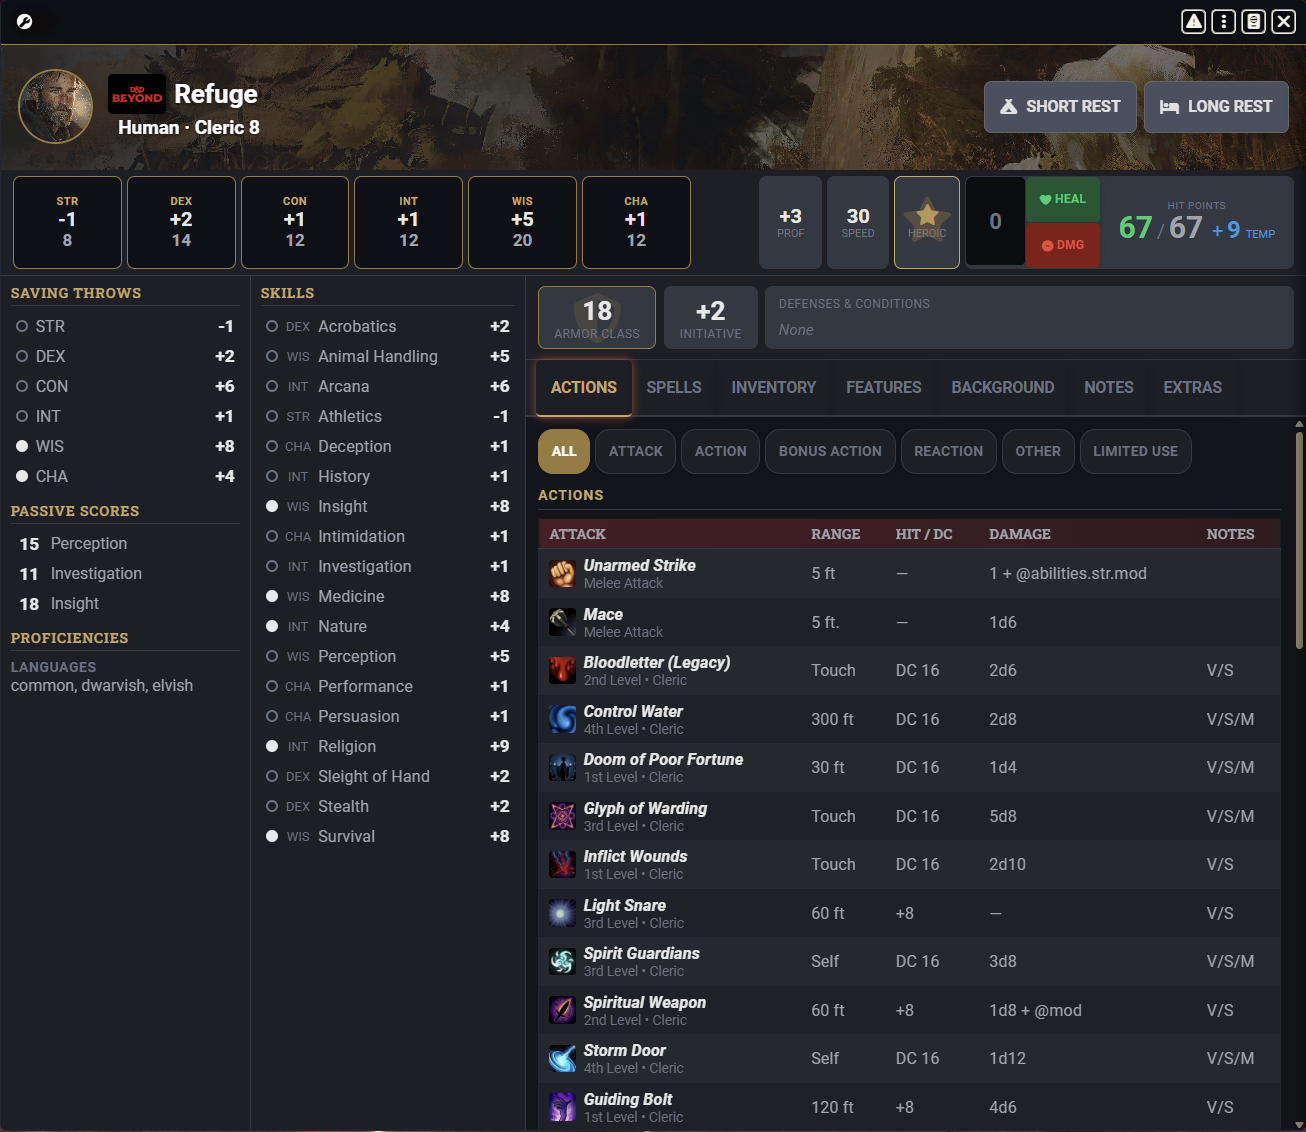
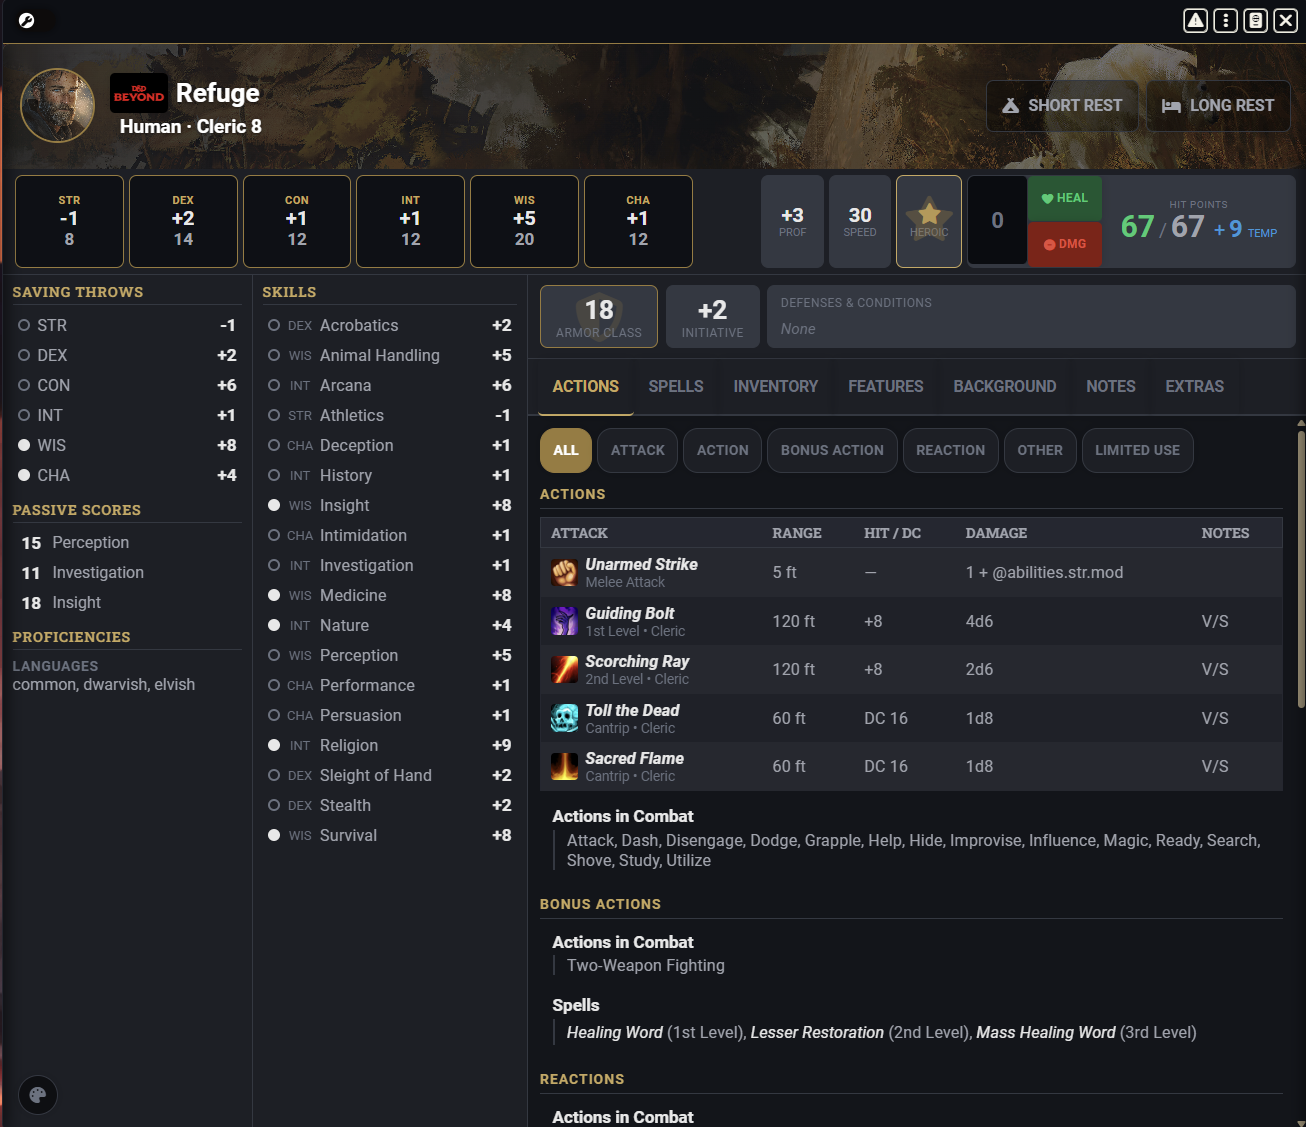
docs: add custom theme screenshot and update cleric screenshot

diff --git a/README.md b/README.md
@@ -20,11 +20,12 @@ A **D&D Beyond–inspired** character sheet replacement for the [D&D 5th Edition
   - **Notes** — freeform notes
   - **Extras** — defenses, resistances, immunities, and conditions
 - **Defenses & Conditions** — inline status display (resistances, exhaustion, conditions) below AC/Initiative
+- **Custom theming** — per-character accent color and background tint via a built-in theme editor
 - **D&D Beyond backdrop images** — automatically pulls your character's backdrop art from D&D Beyond when using [ddb-importer](https://github.com/MrPrimate/ddb-importer)
 
-| Spells Tab | Feature Detail |
-|:---:|:---:|
-| ![Spells tab showing spell slots and spell list](docs/exampleDruidSpells.png) | ![Feature detail popup showing full description](docs/featureFullExplanation.png) |
+| Spells Tab | Feature Detail | Custom Theme |
+|:---:|:---:|:---:|
+| ![Spells tab showing spell slots and spell list](docs/exampleDruidSpells.png) | ![Feature detail popup showing full description](docs/featureFullExplanation.png) | ![Theme editor with accent color and background tint](docs/customTheme.png) |
 
 ## Requirements
 
